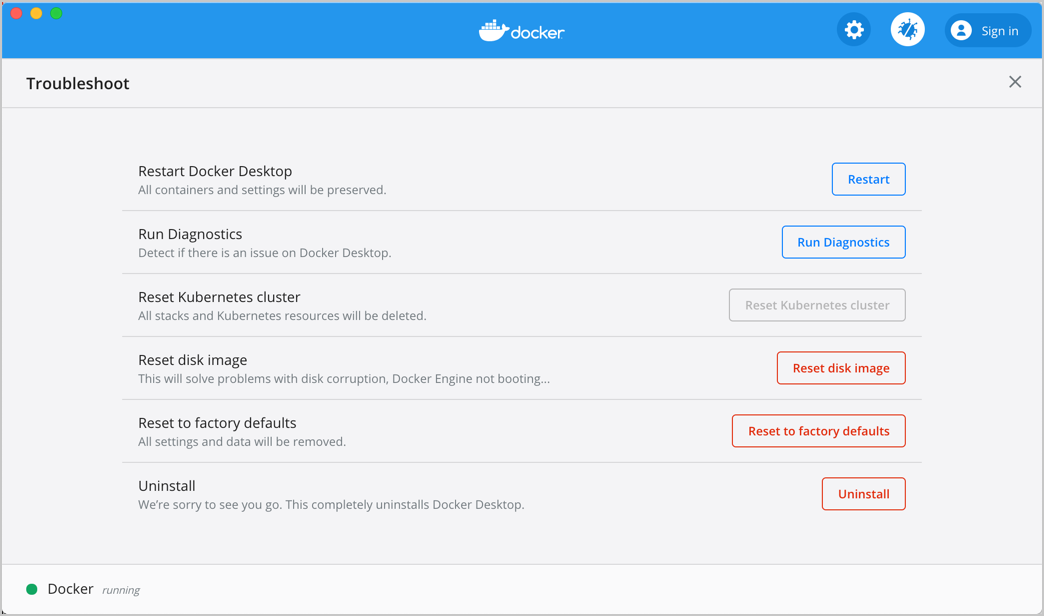
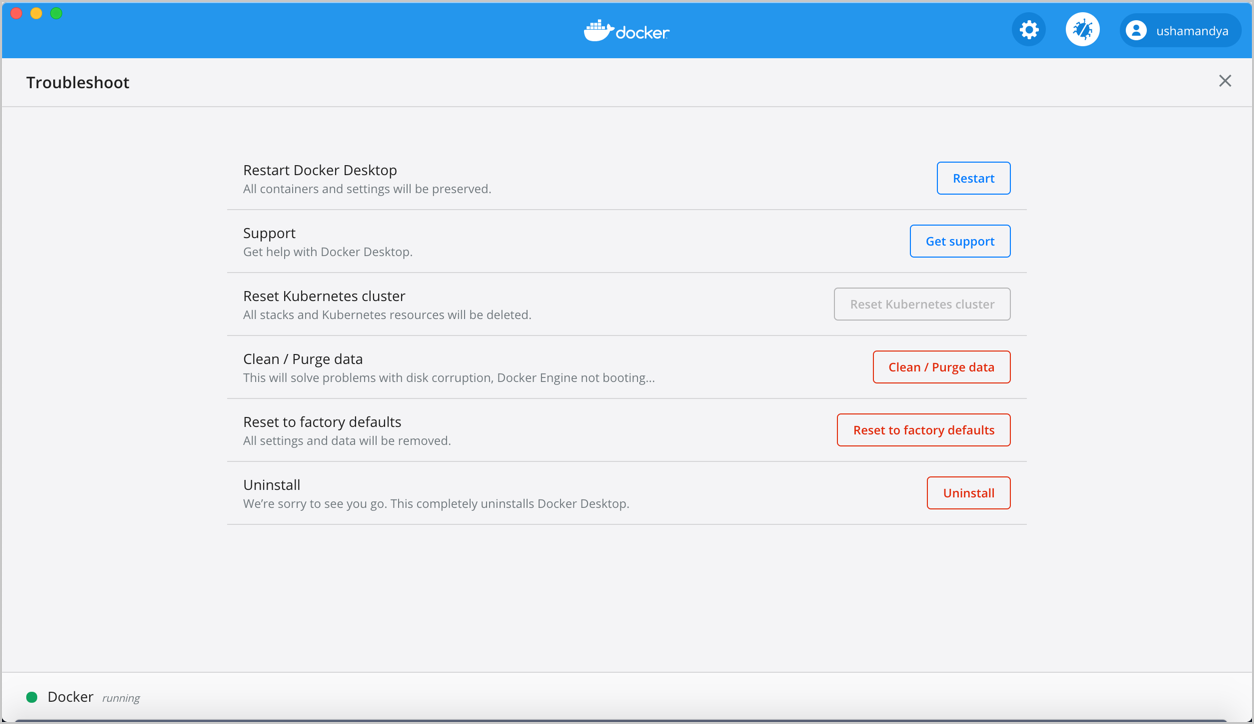
Add docs for Vuln scanning and troubleshoot updates

diff --git a/docker-for-mac/troubleshoot.md b/docker-for-mac/troubleshoot.md
@@ -6,24 +6,24 @@ redirect_from:
 title: Logs and troubleshooting
 ---
 
-This page contains information on how to diagnose and troubleshoot Docker Desktop issues, send logs and communicate with the Docker Desktop team, use our forums and Success Center, browse and log issues on GitHub, and find workarounds for known problems.
+This page contains information on how to diagnose and troubleshoot Docker Desktop issues, request Docker Desktop support (Pro and Team plan users only), send logs and communicate with the Docker Desktop team, use our forums and Success Center, browse and log issues on GitHub, and find workarounds for known problems.
 
 ## Troubleshoot
 
 Choose ![whale menu](images/whale-x.png){: .inline} > **Troubleshoot**
 from the menu bar to see the troubleshoot options.
 
-![Uninstall or reset Docker](images/menu/troubleshoot.png){:width="750px"}
+![Troubleshoot Docker Desktop](images/menu/troubleshoot.png){:width="600px"}
 
 The Troubleshoot page contains the following options:
 
 * **Restart Docker Desktop**: Select to restart Docker Desktop.
 
-* **Run Diagnostics**: Select this option to diagnose any issues on Docker Desktop. For detailed information about diagnostics, see [Diagnose problems, send feedback, and create GitHub issues](#diagnose-problems-send-feedback-and-create-github-issues).
+* **Support**:  Developers on Pro and Team plans can use this option to send a support request. Other users can use this option to diagnose any issues in Docker Desktop. For more information, see [Diagnose and feedback](#diagnose-and-feedback).
 
 * **Reset Kubernetes cluster**: Select this option to delete all stacks and Kubernetes resources. For more information, see [Kubernetes](/docker-for-mac/index/#kubernetes).
 
-* **Reset disk image**: This option resets all Docker data _without_ a
+* **Clean / Purge data**: This option resets all Docker data _without_ a
 reset to factory defaults. Selecting this option results in the loss of existing settings.
 
 * **Reset to factory defaults**: Choose this option to reset all options on
@@ -46,27 +46,38 @@ system.
 >You might want to use the command-line uninstall if, for example, you find that
 >the app is non-functional, and you cannot uninstall it from the menu.
 
-## Diagnose problems, send feedback, and create GitHub issues
+## Diagnose and feedback
 
 ### In-app diagnostics
 
 If you encounter problems for which you do not find solutions in this
 documentation, on [Docker Desktop issues on
 GitHub](https://github.com/docker/for-mac/issues), or the [Docker Desktop forum](https://forums.docker.com/c/docker-for-mac), we can help you troubleshoot
-the log data.
+the log data. Before reporting an issue, we recommend that you read the information provided on this page to fix some common known issues.
 
-Choose ![whale menu](images/whale-x.png){: .inline} > **Troubleshoot** > **Run Diagnostics**.
+>**Note**
+>
+> Docker Desktop offers support for users subscribed to a Pro or a Team plan. If you are experiencing any issues with Docker Desktop, follow the instructions in this section to send a support request to Docker Support.
 
-![Diagnose & Feedback](images/diagnose-feedback.png){:width="600px"}
+Before you get started, we recommend that you sign into your Docker Desktop application and your [Docker Hub](https://hub.docker.com/){:target="_blank" rel="noopener" class="_"} account.
 
-Once the diagnostics are available, you can upload them and obtain a
-**Diagnostic ID**, which must be provided when communicating with the Docker
-team. For more information on our policy regarding personal data, see
-[how is personal data handled in Docker Desktop](faqs.md#how-is-personal-data-handled-in-docker-desktop).
+1. Choose ![whale menu](images/whale-x.png){: .inline} > **Troubleshoot**.
+2. Sign into Docker Desktop. In addition, ensure you are signed into your [Docker account](https://hub.docker.com/){:target="_blank" rel="noopener" class="_"}.
+3. Click **Get Support**. This opens the in-app **Diagnose & Support** (**Diagnose & Feedback** for free users) page and starts collecting the diagnostics.
 
-![Diagnostics & Feedback with ID](images/diagnose-feedback-id.png){:width="600px"}
+    ![Diagnose & Feedback](images/diagnose-support.png){:width="600px"}
 
-If you click **Report an issue**, this opens Docker Desktop [for Mac](https://github.com/docker/for-mac/issues/) issues on GitHub in your web browser in a "New issue" template. Add the details before submitting the issue. Do not forget to copy/paste your diagnostic ID.
+4. When the diagnostics collection process is complete, click **Upload** to upload your diagnostics to Docker Desktop.
+5. When the diagnostics have been uploaded, Docker Desktop prints a Diagnostic ID. Copy this ID.
+6. If you have subscribed to a Pro or a Team plan, click **Get support**. This opens the [Docker Desktop support](https://hub.docker.com/support/desktop/){:target="_blank" rel="noopener" class="_"} form. Fill in the information required and add the ID you copied earlier to the Diagnostics ID field. Click **Submit** to request Docker Desktop support.
+
+   > **Note**
+    >
+    > You must be signed in to Docker Desktop using your Pro or Team plan credentials to access the support form.
+
+7. If you are not subscribed to a Pro or a team plan, you can click **Upgrade your account** to upgrade your existing account.
+
+    Alternatively, click **Report an issue** to open a new Docker Desktop issue on GitHub. This opens Docker Desktop [for Mac](https://github.com/docker/for-mac/issues/) on GitHub in your web browser in a 'New issue' template. Complete the information required and ensure you add the diagnostic ID you copied earlier. Click **submit new issue** to create a new issue.
 
 ### Diagnosing from the terminal
 
@@ -103,12 +114,11 @@ $ open /tmp/BE9AFAAF-F68B-41D0-9D12-84760E6B8740/20190905152051.zip
 ```
 
 <a name="logs"></a>
+
 ## Check the logs
 
 In addition to using the diagnose and feedback option to submit logs, you can
-browse the logs yourself.  The following documentation is about macOS 10.12
-onwards; for older versions, see
-[older documentation](https://github.com/docker/docker.github.io/blob/v17.12/docker-for-mac/troubleshoot.md#check-the-logs).
+browse the logs yourself.
 
 #### In a terminal
 

diff --git a/docker-for-windows/troubleshoot.md b/docker-for-windows/troubleshoot.md
@@ -7,29 +7,29 @@ redirect_from:
 title: Logs and troubleshooting
 ---
 
-This page contains information on how to diagnose and troubleshoot problems, send logs and communicate with the Docker Desktop team, use our forums and Knowledge Hub, browse and log issues on GitHub, and find workarounds for known problems.
+This page contains information on how to diagnose and troubleshoot Docker Desktop issues, request Docker Desktop support (Pro and Team plan users only), send logs and communicate with the Docker Desktop team, use our forums and Success Center, browse and log issues on GitHub, and find workarounds for known problems.
 
 ## Troubleshoot
 
 Choose ![whale menu](images/whale-x.png){: .inline} > **Troubleshoot**
 from the menu bar to see the troubleshoot options.
 
-![Uninstall or reset Docker](images/troubleshoot.png){:width="750px"}
+![Troubleshoot Docker Desktop](images/troubleshoot.png){:width="600px"}
 
 The Troubleshoot page contains the following options:
 
 * **Restart Docker Desktop**: Select to restart Docker Desktop.
 
-* **Run Diagnostics**: Select this option to diagnose any issues on Docker Desktop. For detailed information about diagnostics, see [Diagnose problems, send feedback, and create GitHub issues](#diagnose-problems-send-feedback-and-create-github-issues).
-
-* **Clean / Purge data**: Select this option to delete container and image data. Choose whether you'd like to delete data from Hyper-V, WSL 2, or Windows Containers and then click **Delete** to confirm.
+* **Support**:  Developers on Pro and Team plans can use this option to send a support request. Other users can use this option to diagnose any issues in Docker Desktop. For more information, see [Diagnose and feedback](#diagnose-and-feedback).
 
 * **Reset Kubernetes cluster**: Select this option to delete all stacks and Kubernetes resources. For more information, see [Kubernetes](index.md#kubernetes).
+
+* **Clean / Purge data**: Select this option to delete container and image data. Choose whether you'd like to delete data from Hyper-V, WSL 2, or Windows Containers and then click **Delete** to confirm.
 
 * **Reset to factory defaults**: Choose this option to reset all options on
 Docker Desktop to their initial state, the same as when Docker Desktop was first installed.
 
-## Diagnose problems, send feedback, and create GitHub issues
+## Diagnose and feedback
 
 ### In-app diagnostics
 
@@ -37,26 +37,26 @@ If you experience issues for which you do not find solutions in this
 documentation, on [Docker Desktop for Windows issues on
 GitHub](https://github.com/docker/for-win/issues), or the [Docker Desktop for Windows
 forum](https://forums.docker.com/c/docker-for-windows), we can help you
-troubleshoot the log data.
+troubleshoot the log data. Before reporting an issue, we recommend that you read the information provided on this page to fix some common known issues.
 
-Choose ![whale menu](images/whale-x.png){: .inline} > **Troubleshoot**
+1. Choose ![whale menu](images/whale-x.png){: .inline} > **Troubleshoot**
 from the menu.
+2. Sign into Docker Desktop. In addition, ensure you are signed into your [Docker account](https://hub.docker.com/){:target="_blank" rel="noopener" class="_"}.
+3. Click **Get Support**. This opens the in-app **Diagnose & Support** (**Diagnose & Feedback** for free users) page and starts collecting the diagnostics.
 
-![Diagnose & Feedback](images/diagnose-feedback.png){:width="600px"}
+    ![Diagnose & Support](images/diagnose-support.png){:width="600px"}
 
-When the **Diagnose & Feedback** window initiated, it starts collecting diagnostics. When the diagnostics are available, you can upload them and obtain a **Diagnostic ID**, which must be provided when communicating with the Docker
-team. For more information on our policy regarding personal data, see
-[how is personal data handled in Docker
-Desktop](https://docs.docker.com/docker-for-mac/faqs/#how-is-personal-data-handled-in-docker-desktop).
+4. When the diagnostics collection process is complete, click **Upload** to upload your diagnostics to Docker Desktop.
+5. When the diagnostics have been uploaded, Docker Desktop prints a Diagnostic ID. Copy this ID.
+6. If you have subscribed to a Pro or a Team plan, click **Get support**. This opens the [Docker Desktop support](https://hub.docker.com/support/desktop/){:target="_blank" rel="noopener" class="_"} form. Fill in the information required and add the ID you copied earlier to the Diagnostics ID field. Click **Submit** to request Docker Desktop support.
 
-![Diagnose & Feedback with ID](images/diagnostic-id.png){:width="600px"}
+   > **Note**
+    >
+    > You must be signed in to Docker Desktop using your Pro or Team plan credentials to access the support form.
 
-If you click on **Report an issue**, it opens [Docker Desktop for Windows issues on
-GitHub](https://github.com/docker/for-win/issues/) in your web browser in a
-"New issue" template, to be completed before submission. Do not forget to
-include your diagnostic ID.
+7. If you are not subscribed to a Pro or a team plan, you can click **Upgrade your account** to upgrade your existing account.
 
-![issue-template](images/issue-template.png){:width="600px"}
+    Alternatively, click **Report an issue** to open a new Docker Desktop issue on GitHub. This opens Docker Desktop [for Windows](https://github.com/docker/for-win/issues/) on GitHub in your web browser in a 'New issue' template. Complete the information required and ensure you add the diagnostic ID you copied earlier. Click **submit new issue** to create a new issue.
 
 ### Diagnosing from the terminal
 

diff --git a/desktop/dashboard.md b/desktop/dashboard.md
@@ -11,7 +11,7 @@ The Docker Dashboard provides a simple interface that enables you to manage your
 
 The **Containers/Apps** view provides a runtime view of all your containers and applications. It allows you to interact with containers and applications, and manage the lifecycle of your applications directly from your machine. This view also provides an intuitive interface to perform common actions to inspect, interact with, and manage your Docker objects including containers and Docker Compose-based applications.
 
-The **Images** view displays a list of your Docker images, and allows you to run an image as a container, pull the latest version of an image from Docker Hub, and inspect images. It also contains clean up options to remove unwanted images from the disk to reclaim space. If you are logged in, you can also see the images you and your organization have shared on Docker Hub.
+The **Images** view displays a list of your Docker images, and allows you to run an image as a container, pull the latest version of an image from Docker Hub, and inspect images. It also displays a summary of the vulnerability scanning report using Snyk. In addition, the Images view contains clean up options to remove unwanted images from the disk to reclaim space. If you are logged in, you can also see the images you and your organization have shared on Docker Hub.
 
 In addition, the Docker Dashboard allows you to:
 
@@ -200,11 +200,15 @@ An **unused** image is an image which is not used by any running or stopped cont
 
 ### Interact with remote repositories
 
-The Images view also allows you to manage and interact with images in remote repositories and lets you switch between organizations.
+The Images view also allows you to manage and interact with images in remote repositories and lets you switch between organizations. Select an organization from the drop-down to view a list of repositories in your organization.
+
+> **Note**
+>
+> If you have subscribed to a Pro or a Team plan and enabled [Vulnerability Scanning](../docker-hub/vulnerability-scanning.md) in Docker Hub, the scan results will appear on the Remote repositories tab.
 
 The **Pull** option allows you to pull the latest version of the image from Docker Hub. The **View in Hub** option opens the Docker Hub page and displays detailed information about the image, such as the OS architecture, size of the image, the date when the image was pushed, and a list of the image layers.
 
-![View image in Hub](images/image-details.png){:width="700px"}
+![Images in remote repositories](images/image-details.png){:width="700px"}
 
 To interact with remote repositories:
 
@@ -212,3 +216,7 @@ To interact with remote repositories:
 2. Select an organization from the drop-down list. This displays a list of repositories in your organization.
 3. Click on an image from the list and then select **Pull** to pull the latest image from the remote repository.
 4. To view a detailed information about the image in Docker Hub, select the image and then click **View in Hub**.
+
+    The **View in Hub** option opens the Docker Hub page and displays detailed information about the image, such as the OS architecture, size of the image, the date when the image was pushed, and a list of the image layers.
+
+    If you have subscribed to a Pro or a Team plan and have enabled [Vulnerability Scanning](../docker-hub/vulnerability-scanning.md) the Docker Hub page also displays a summary of the vulnerability scan report and provides detailed information about the vulnerabilities identified.
